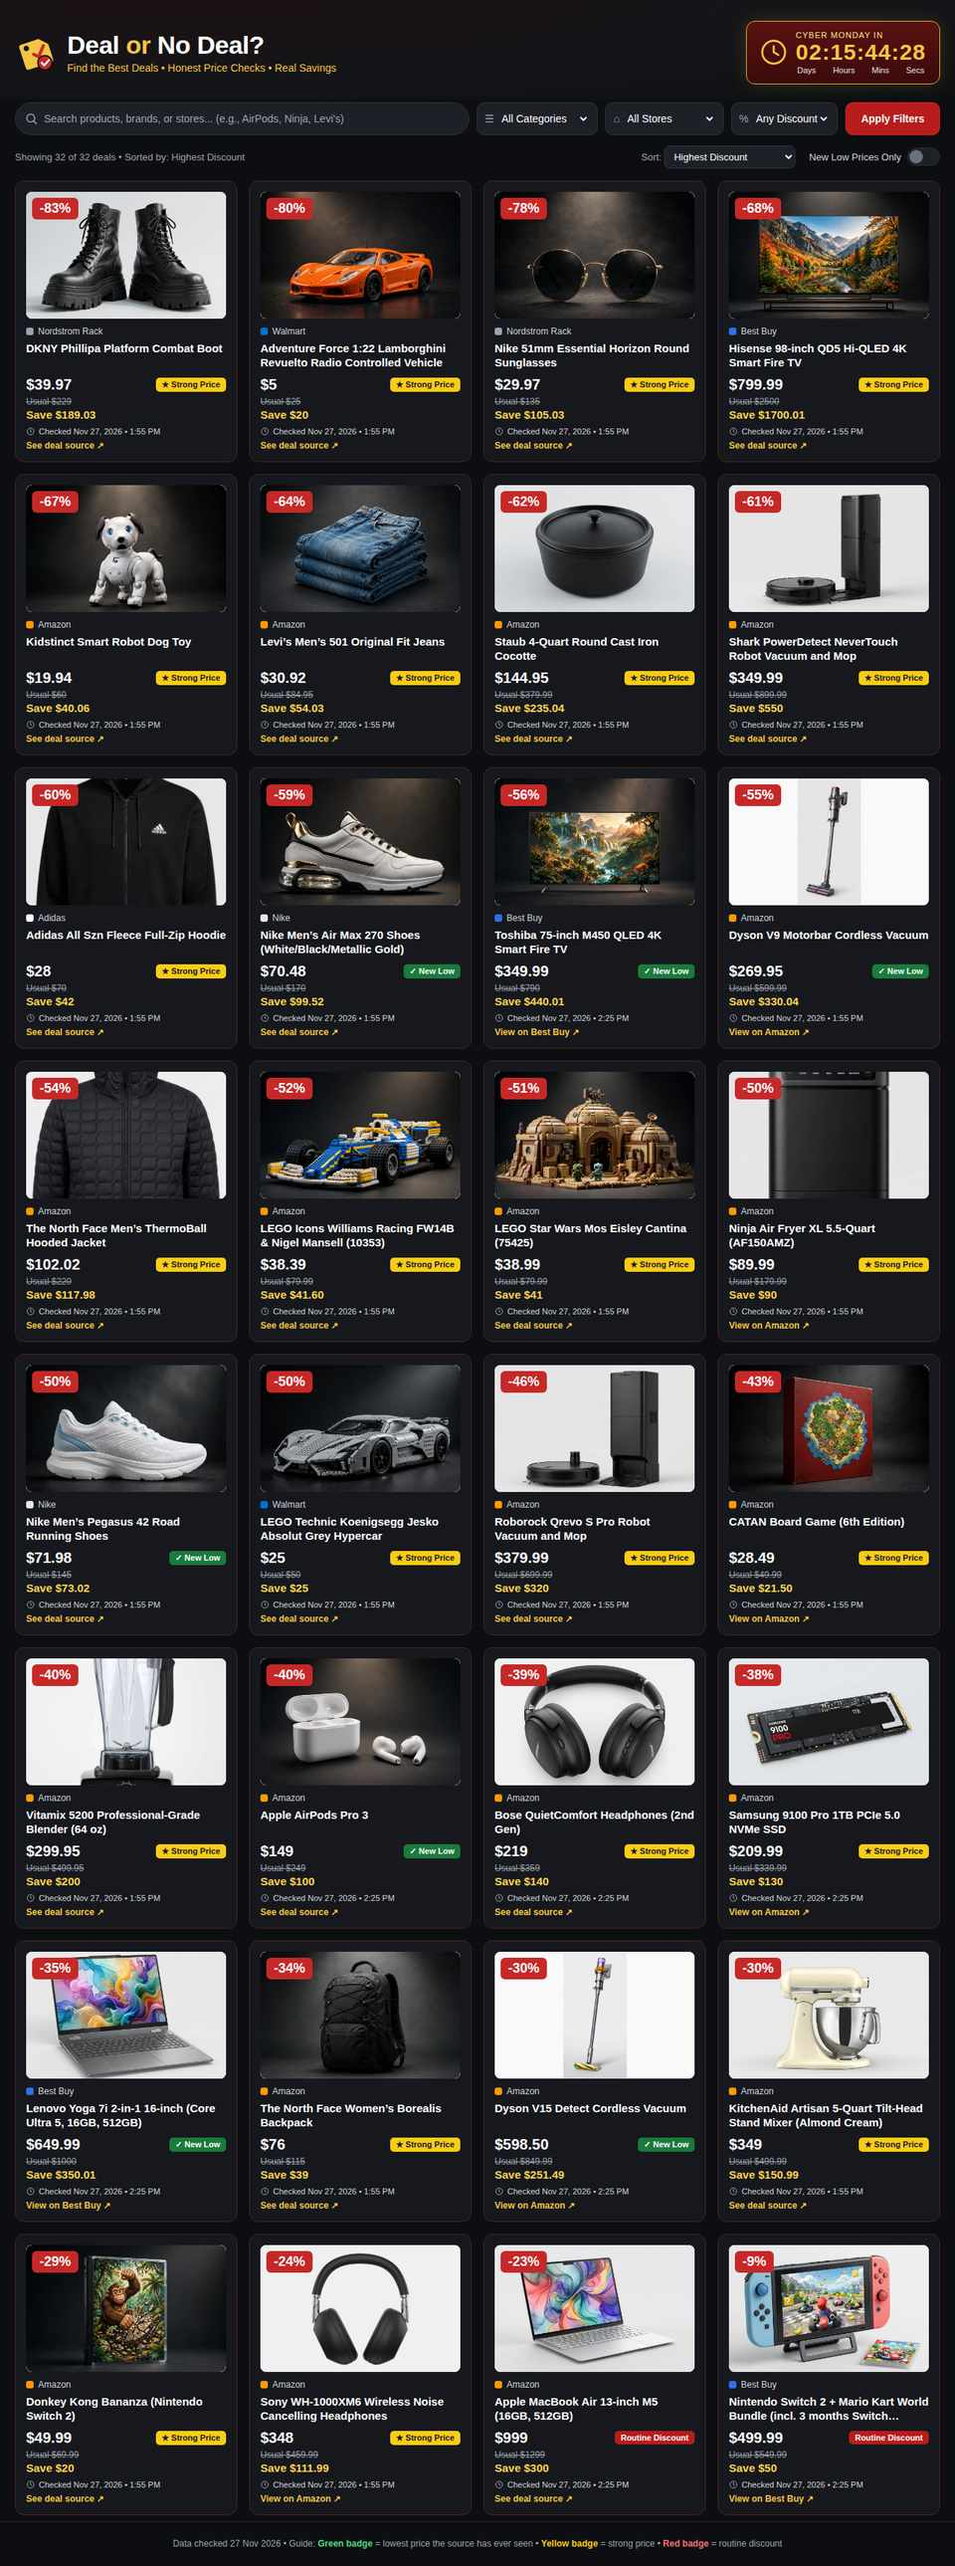
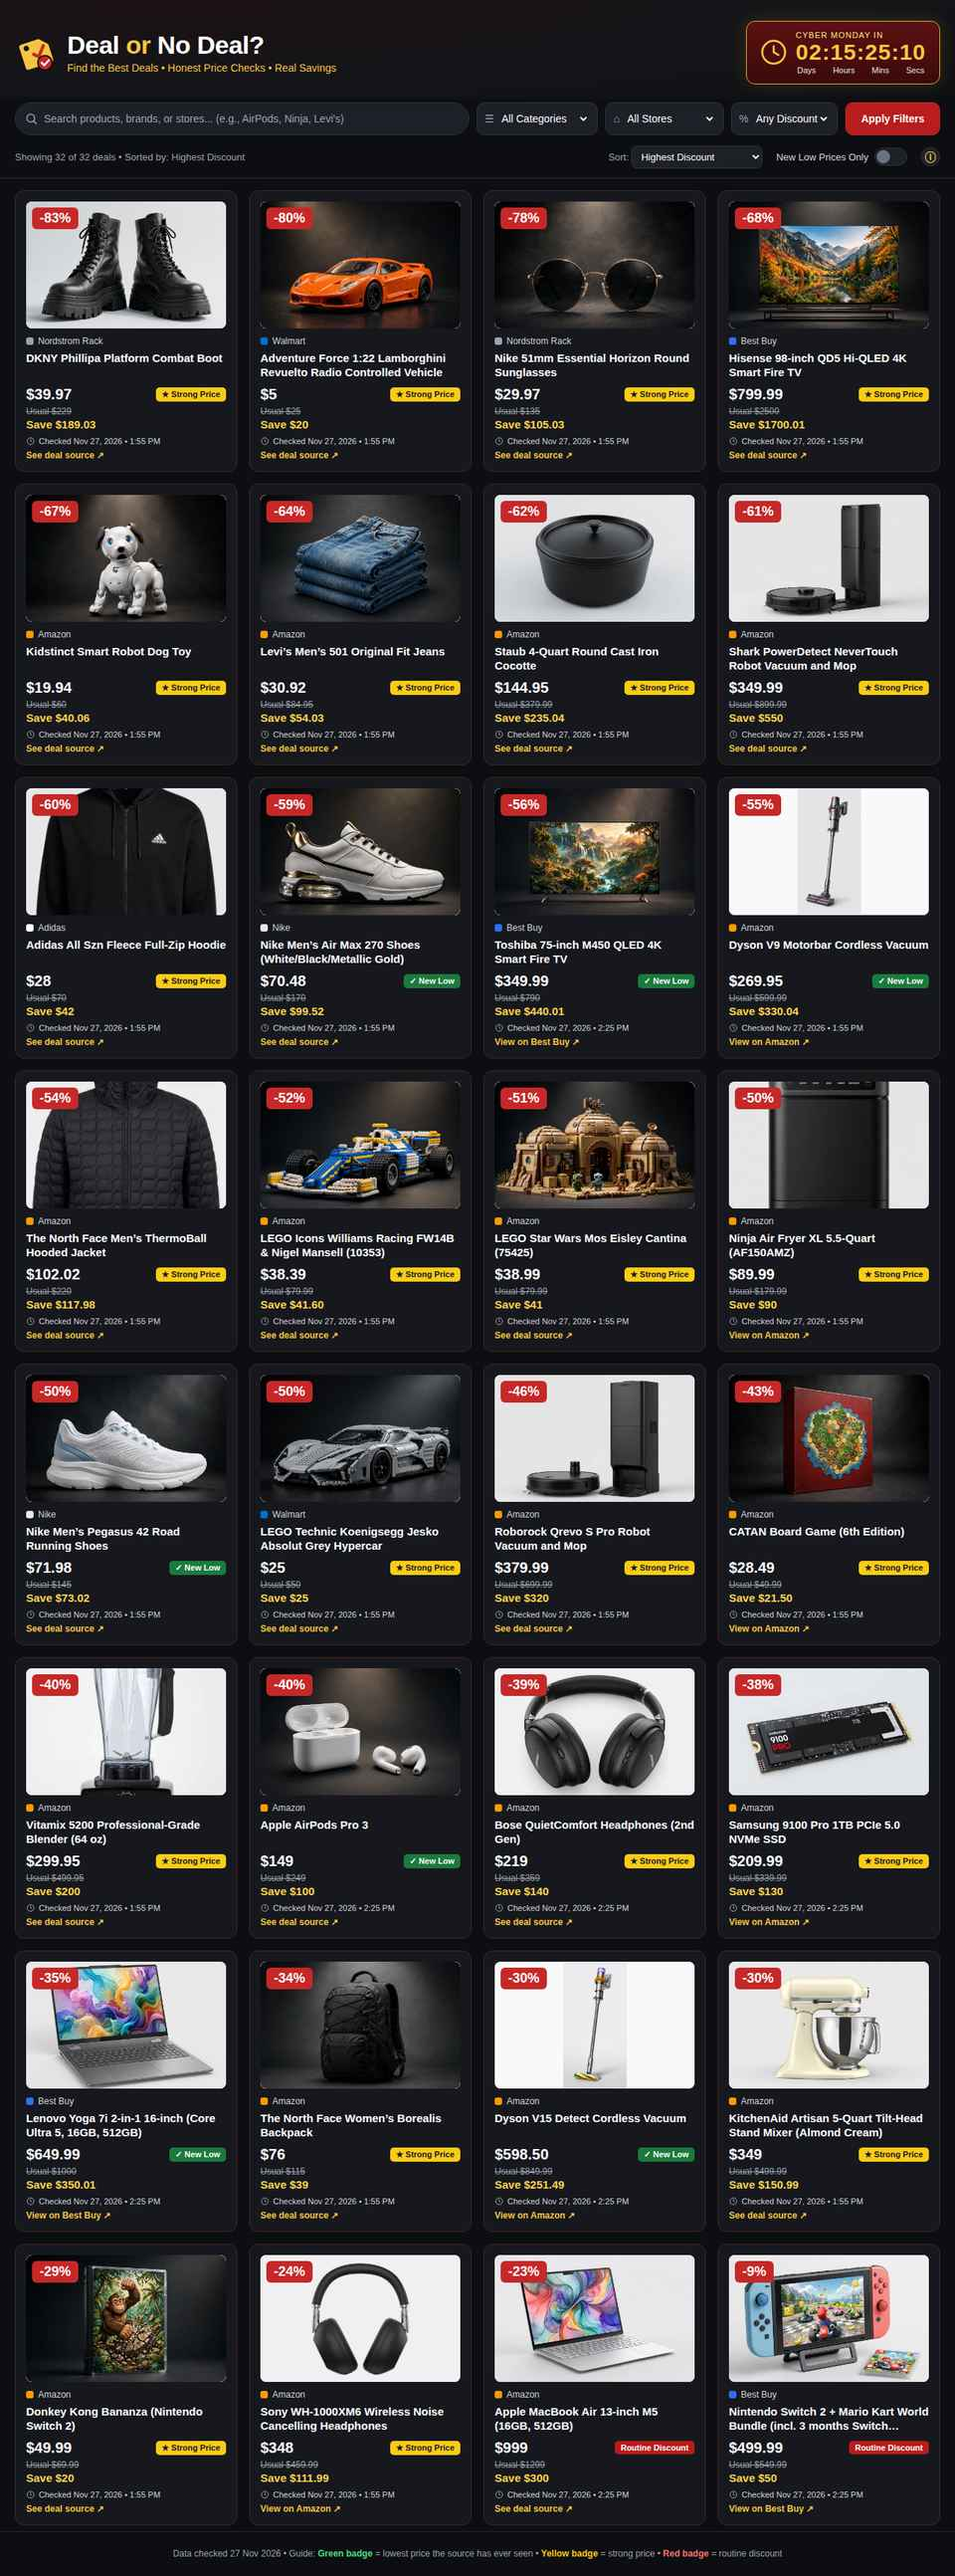
v5: badge legend popover next to New Low toggle, sticky filter bar, auto-apply + skeleton pulse, WCAG AA badge contrast verified

diff --git a/app/app.js b/app/app.js
@@ -19,6 +19,17 @@
 // sticky CTA footer appears only after the top CTA scrolls out of view.
 // Prices, badges, evidence and history points are UNCHANGED from v3 — the
 // graph still plots only the two evidence-backed points, never invented ones.
+//
+// v5: the badge legend is a popover next to the "New Low Prices Only"
+// toggle (same wording and colours as the card badges); the filter bar
+// (search + dropdowns + status strip) is sticky at the top of the
+// viewport; a brief skeleton pulse marks every filter/sort/toggle change.
+// VERIFIED, not rebuilt: card hover scale + gold border already existed
+// (styles.css .card:hover); the modal already closed on backdrop click
+// and Esc; the three filter dropdowns already auto-applied on change —
+// only the pulse is new there. Badge contrast already passes WCAG AA
+// (New Low 5.39:1, Strong 11.58:1, Routine 6.47:1), so no badge colours
+// changed. Data, prices, badge names and history points UNCHANGED.
 
 (function () {
   "use strict";
@@ -291,6 +302,10 @@
     modal.hidden = false;
     document.body.style.overflow = "hidden";
     modalClose.focus();
+    // v5: the legend popover sits behind the modal overlay (filter bar
+    // z-index 5 vs modal z-index 10) — close it so it never lingers
+    // open behind the modal when the user comes back to the grid.
+    setLegend(false);
     syncStickyCta();
     // v4: the modal photo loads asynchronously and can shift the top CTA's
     // position after open, so re-check the sticky state when it finishes.
@@ -343,7 +358,47 @@
   modal.addEventListener("click", function (e) { if (e.target === modal) closeModal(); });
   document.addEventListener("keydown", function (e) { if (e.key === "Escape" && !modal.hidden) closeModal(); });
 
+  // ---------- Badge legend popover (v5) ----------
+  // The ⓘ button next to the "New Low Prices Only" toggle opens the
+  // three-tier guide (same wording and colours as the card badges).
+  // Click toggles it (touch); hover/focus opens it too (see styles.css);
+  // Esc or a click anywhere outside the popover closes it.
+  var legendBtn = document.getElementById("legendBtn");
+  var legendPop = document.getElementById("legendPop");
+  function setLegend(open) {
+    legendPop.classList.toggle("open", open);
+    legendBtn.setAttribute("aria-expanded", open ? "true" : "false");
+    // v5: the button keeps focus after a click, and the CSS :focus-within
+    // rule would hold the popover open even with .open removed — so
+    // closing also moves focus off the button, but ONLY when the button
+    // itself has focus (never steals focus from anywhere else, e.g. the
+    // modal close button when the modal opens).
+    if (!open && document.activeElement === legendBtn) legendBtn.blur();
+  }
+  legendBtn.addEventListener("click", function (e) {
+    e.stopPropagation();
+    setLegend(!legendPop.classList.contains("open"));
+  });
+  document.addEventListener("click", function (e) {
+    if (!e.target.closest(".legend-wrap")) setLegend(false);
+  });
+  document.addEventListener("keydown", function (e) {
+    if (e.key === "Escape") setLegend(false);
+  });
+
   // ---------- Controls ----------
+  // v5: a brief skeleton pulse so a filter/sort/toggle change visibly
+  // updates the grid. The dropdowns already auto-applied on change
+  // (verified in v4 code) — only the pulse is new; search input is
+  // excluded on purpose, so typing does not flash the grid per keystroke.
+  // The timer id is kept so rapid successive changes cannot clear a
+  // newer pulse early.
+  var pulseTimer = null;
+  function pulseGrid() {
+    grid.classList.add("updating");
+    if (pulseTimer) clearTimeout(pulseTimer);
+    pulseTimer = setTimeout(function () { grid.classList.remove("updating"); pulseTimer = null; }, 300);
+  }
   function readControls() {
     state.q = searchEl.value;
     state.category = categoryEl.value;
@@ -354,21 +409,22 @@
   }
   searchEl.addEventListener("input", function () { readControls(); render(); });
   clearBtn.addEventListener("click", function () { searchEl.value = ""; readControls(); render(); searchEl.focus(); });
-  categoryEl.addEventListener("change", function () { readControls(); render(); });
-  storeEl.addEventListener("change", function () { readControls(); render(); });
-  discountEl.addEventListener("change", function () { readControls(); render(); });
-  sortEl.addEventListener("change", function () { readControls(); render(); });
-  document.getElementById("apply").addEventListener("click", function () { readControls(); render(); });
+  categoryEl.addEventListener("change", function () { readControls(); pulseGrid(); render(); });
+  storeEl.addEventListener("change", function () { readControls(); pulseGrid(); render(); });
+  discountEl.addEventListener("change", function () { readControls(); pulseGrid(); render(); });
+  sortEl.addEventListener("change", function () { readControls(); pulseGrid(); render(); });
+  document.getElementById("apply").addEventListener("click", function () { readControls(); pulseGrid(); render(); });
   toggleEl.addEventListener("click", function () {
     state.newLowOnly = !state.newLowOnly;
     toggleEl.setAttribute("aria-checked", state.newLowOnly ? "true" : "false");
+    pulseGrid();
     render();
   });
   document.getElementById("reset").addEventListener("click", function () {
     searchEl.value = ""; categoryEl.value = ""; storeEl.value = ""; discountEl.value = "0"; sortEl.value = "discount";
     state.newLowOnly = false;
     toggleEl.setAttribute("aria-checked", "false");
-    readControls(); render();
+    readControls(); pulseGrid(); render();
   });
 
   // ---------- Countdown to Cyber Monday 2026 ----------

diff --git a/app/styles.css b/app/styles.css
@@ -62,6 +62,21 @@ button { cursor: pointer; }
 .countdown-digits { font-size: 30px; font-weight: 800; color: var(--gold); line-height: 1.15; letter-spacing: 1px; }
 .countdown-units { display: flex; justify-content: space-between; font-size: 11px; color: #e5e7eb; padding: 0 2px; }
 
+/* ---- Sticky filter bar (v5) ---- */
+/* The whole filter area (search + dropdowns + status strip) sticks to the
+   top of the viewport while the 32 deals scroll underneath, so the user
+   can change filters, sort, or the New Low toggle without scrolling back
+   up. The wrapper carries the page background so cards never show
+   through it while it sticks. */
+.filterbar {
+  position: sticky;
+  top: 0;
+  z-index: 5;
+  background: var(--bg);
+  border-bottom: 1px solid var(--border);
+  padding-bottom: 12px;
+}
+
 /* ---- Filter bar ---- */
 .controls {
   max-width: 1380px;
@@ -170,6 +185,60 @@ button { cursor: pointer; }
 }
 .toggle[aria-checked="true"] { background: #7c5a10; border-color: var(--gold-dim); }
 .toggle[aria-checked="true"] .thumb { left: 22px; background: var(--gold); }
+
+/* ---- Badge legend popover (v5) ---- */
+/* The ⓘ button sits next to the "New Low Prices Only" toggle; hover or
+   click opens the three-tier guide with the same colour-coding as the
+   card badges, so the badge system is explained where the user acts on
+   it — not only in the small footer text. The popover is anchored to the
+   right edge of the button and capped to the viewport, so it never
+   overflows on a narrow phone screen. */
+.legend-wrap { position: relative; display: inline-flex; align-items: center; }
+.legend-btn {
+  width: 26px; height: 26px;
+  border-radius: 50%;
+  border: 1px solid var(--border);
+  background: var(--surface-2);
+  color: var(--gold);
+  font-size: 15px; font-weight: 700; line-height: 1;
+  display: inline-flex; align-items: center; justify-content: center;
+  padding: 0;
+}
+.legend-btn:hover, .legend-btn[aria-expanded="true"] { border-color: var(--gold); }
+.legend-pop {
+  display: none;
+  position: absolute;
+  right: 0;
+  top: calc(100% + 8px);
+  width: 300px;
+  max-width: calc(100vw - 24px);
+  background: var(--surface-2);
+  border: 1px solid var(--gold-dim);
+  border-radius: 10px;
+  padding: 14px;
+  z-index: 20;
+  box-shadow: 0 12px 32px rgba(0, 0, 0, 0.55);
+  font-size: 13px;
+  line-height: 1.5;
+  color: var(--muted-2);
+  text-align: left;
+  /* v5: on a short viewport the 218px popover could run past the bottom;
+     cap it and scroll inside instead of clipping the third tier. */
+  max-height: calc(100vh - 140px);
+  overflow: auto;
+}
+.legend-pop.open, .legend-wrap:hover .legend-pop, .legend-wrap:focus-within .legend-pop { display: block; }
+.legend-title { display: block; color: var(--text); font-weight: 800; font-size: 14px; margin-bottom: 10px; }
+.legend-list { display: grid; gap: 10px; }
+.legend-row { display: flex; gap: 8px; align-items: flex-start; }
+.legend-row .badge { flex: none; margin-top: 1px; }
+
+/* ---- Skeleton pulse (v5) ---- */
+/* A brief fade pulse on the grid whenever a filter, sort, or toggle
+   changes, so the user sees the grid updating instead of the cards
+   swapping silently. Fires only on control changes, never per keystroke. */
+@keyframes gridPulse { from { opacity: 0.45; } to { opacity: 1; } }
+#grid.updating .card { animation: gridPulse 0.28s ease; }
 
 /* ---- Deal grid ---- */
 #grid {
@@ -388,6 +457,13 @@ footer {
   #grid { grid-template-columns: repeat(2, minmax(0, 1fr)); }
   .hero h1 { font-size: 28px; }
   .countdown-digits { font-size: 24px; }
+  /* v5: below 900px the ⓘ button can sit mid-line (the status strip
+     wraps), so a button-anchored popover would run off the left edge of
+     the viewport (measured: x=-68 on a 390px phone). Anchor the popover
+     to the sticky filter bar instead: full width, just below the bar,
+     never overflowing the viewport. */
+  .legend-wrap { position: static; }
+  .legend-pop { left: 12px; right: 12px; width: auto; top: calc(100% + 8px); }
 }
 @media (max-width: 560px) {
   #grid { grid-template-columns: repeat(2, minmax(0, 1fr)); gap: 10px; padding: 12px 12px 8px; }

diff --git a/app/index.html b/app/index.html
@@ -38,6 +38,8 @@
   </div>
 </header>
 
+<!-- v5: the whole filter area is one sticky bar (see .filterbar in styles.css) -->
+<div class="filterbar">
 <section class="controls" aria-label="Deal filters">
   <div class="search-wrap">
     <svg viewBox="0 0 24 24" aria-hidden="true"><circle cx="11" cy="11" r="7" fill="none" stroke="#9CA3AF" stroke-width="2"/><path d="M16.5 16.5L21 21" stroke="#9CA3AF" stroke-width="2" stroke-linecap="round"/></svg>
@@ -84,8 +86,22 @@
     <label class="toggle-wrap"><span>New Low Prices Only</span>
       <button id="newLowOnly" type="button" class="toggle" role="switch" aria-checked="false" aria-label="New Low prices only"><span class="thumb"></span></button>
     </label>
+    <!-- v5: badge legend popover next to the toggle — the three tiers
+         explained where the user acts on them, not only in the footer. -->
+    <span class="legend-wrap">
+      <button id="legendBtn" type="button" class="legend-btn" aria-expanded="false" aria-haspopup="dialog" aria-controls="legendPop" aria-label="How we rank deals">&#9432;&#xFE0E;</button>
+      <span id="legendPop" class="legend-pop" role="dialog" aria-labelledby="legendTitle" aria-label="Badge guide">
+        <span id="legendTitle" class="legend-title">How we rank deals</span>
+        <span class="legend-list">
+          <span class="legend-row"><span class="badge new">&#10003; New Low</span><span>The lowest price the source has ever recorded for this item.</span></span>
+          <span class="legend-row"><span class="badge strong">&#9733; Strong Price</span><span>A genuinely large, non-routine discount.</span></span>
+          <span class="legend-row"><span class="badge routine">Routine Discount</span><span>A small or common markdown often seen throughout the year.</span></span>
+        </span>
+      </span>
+    </span>
   </div>
 </section>
+</div>
 
 <main id="grid" aria-live="polite"></main>
 <noscript><p style="text-align:center;color:#F5C542;padding:24px">This deal finder needs JavaScript to show the 32 checked deals.</p></noscript>
